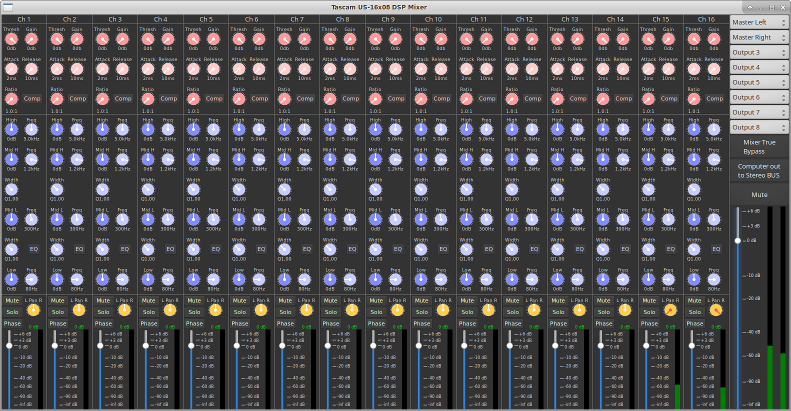
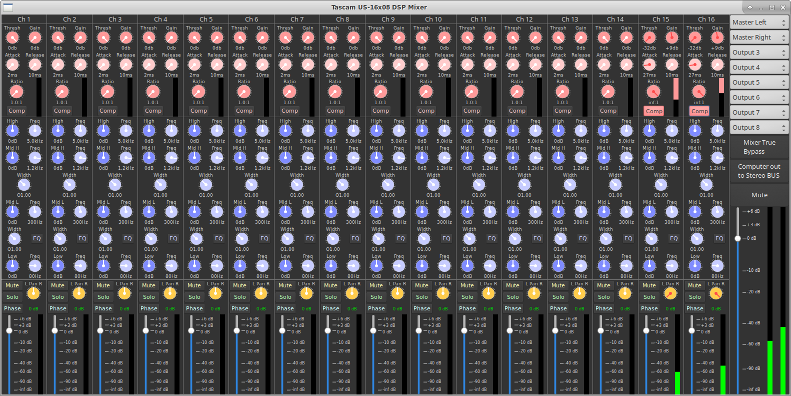
change compressor reduction level to top-down

diff --git a/src/OMeter.cpp b/src/OMeter.cpp
@@ -37,7 +37,7 @@ void OMeter::on_size_request(Gtk::Requisition* requisition) {
 	//Let's make this simple example widget always need 50 by 50:
 	requisition->height = 50;
 	requisition->width = 50;
-	
+
 }
 
 void OMeter::on_size_allocate(Gtk::Allocation& allocation) {
@@ -97,8 +97,8 @@ void OMeter::on_realize() {
 		style_attach();
 
 		//set colors
-//		modify_bg(Gtk::STATE_NORMAL, Gdk::Color("black"));
-//		modify_fg(Gtk::STATE_NORMAL, Gdk::Color("green"));
+		//		modify_bg(Gtk::STATE_NORMAL, Gdk::Color("black"));
+		//		modify_fg(Gtk::STATE_NORMAL, Gdk::Color("green"));
 
 		//make the widget receive expose events
 		m_refGdkWindow->set_user_data(gobj());
@@ -124,29 +124,41 @@ bool OMeter::on_expose_event(GdkEventExpose * event) {
 
 		double hight = height * (direction == 1 ? 1 - scale : scale);
 		gint center_x = width / 2;
-		
+
 		Cairo::RefPtr<Cairo::Context> cr = m_refGdkWindow->create_cairo_context();
-//		Gdk::Cairo::set_source_color(cr, Gdk::Color("green") );
-		
+		//		Gdk::Cairo::set_source_color(cr, Gdk::Color("green") );
+
 		cr->set_source_rgba(m_b_red, m_b_green, m_b_blue, m_b_alpha);
 		cr->set_line_width(width);
 
-		cr->move_to(center_x , direction == 1 ? hight : height - hight);
-		cr->line_to(center_x , direction == 1 ? 0 :height);
-		cr->stroke();		
-		
+		cr->move_to(center_x, direction == 1 ? hight : height - hight);
+		cr->line_to(center_x, direction == 1 ? 0 : height);
+		cr->stroke();
+
 	}
 	return true;
 }
 
 void OMeter::setLevel(int val) {
-	if (val >= level || direction == 1) {
-		level = val;
-		peak_count = 50;
-		peak = val;
-	} else {
-		level = level - (level - val) / 20;
-		peak_count = peak_count ? peak_count - 1 : 0;
+	if (direction == 0) {
+		if (val >= level) {
+			level = val;
+			peak_count = 50;
+			peak = val;
+		} else {
+			level = level - (level - val) / 20;
+			peak_count = peak_count ? peak_count - 1 : 0;
+		}
+	}
+	else {
+		if (val <= level) {
+			level = val;
+			peak_count = 50;
+			peak = val;
+		} else {
+			level = level + (val - level) / 20;
+			peak_count = peak_count ? peak_count - 1 : 0;
+		}
 	}
 	queue_draw();
 }
@@ -154,7 +166,8 @@ void OMeter::setLevel(int val) {
 void OMeter::set_level_direction(int direct) {
 	direction = direct;
 }
-void OMeter::set_level_color(double red, double green, double blue, double alpha ) {
+
+void OMeter::set_level_color(double red, double green, double blue, double alpha) {
 	m_b_red = red;
 	m_b_green = green;
 	m_b_blue = blue;

diff --git a/src/OComp.cpp b/src/OComp.cpp
@@ -96,6 +96,7 @@ OComp::OComp() : Gtk::VBox() {
 	m_re_box.pack_start(l_evb, true, false);
 	m_r_box.pack_start(m_re_box, true, false);
 	
+	m_reduction.setLevel(32768);
 	m_reduction.set_size_request(10,-1);
 	m_reduction.set_level_direction(1);
 	m_reduction.set_level_color(1, .6, .6, 1);
